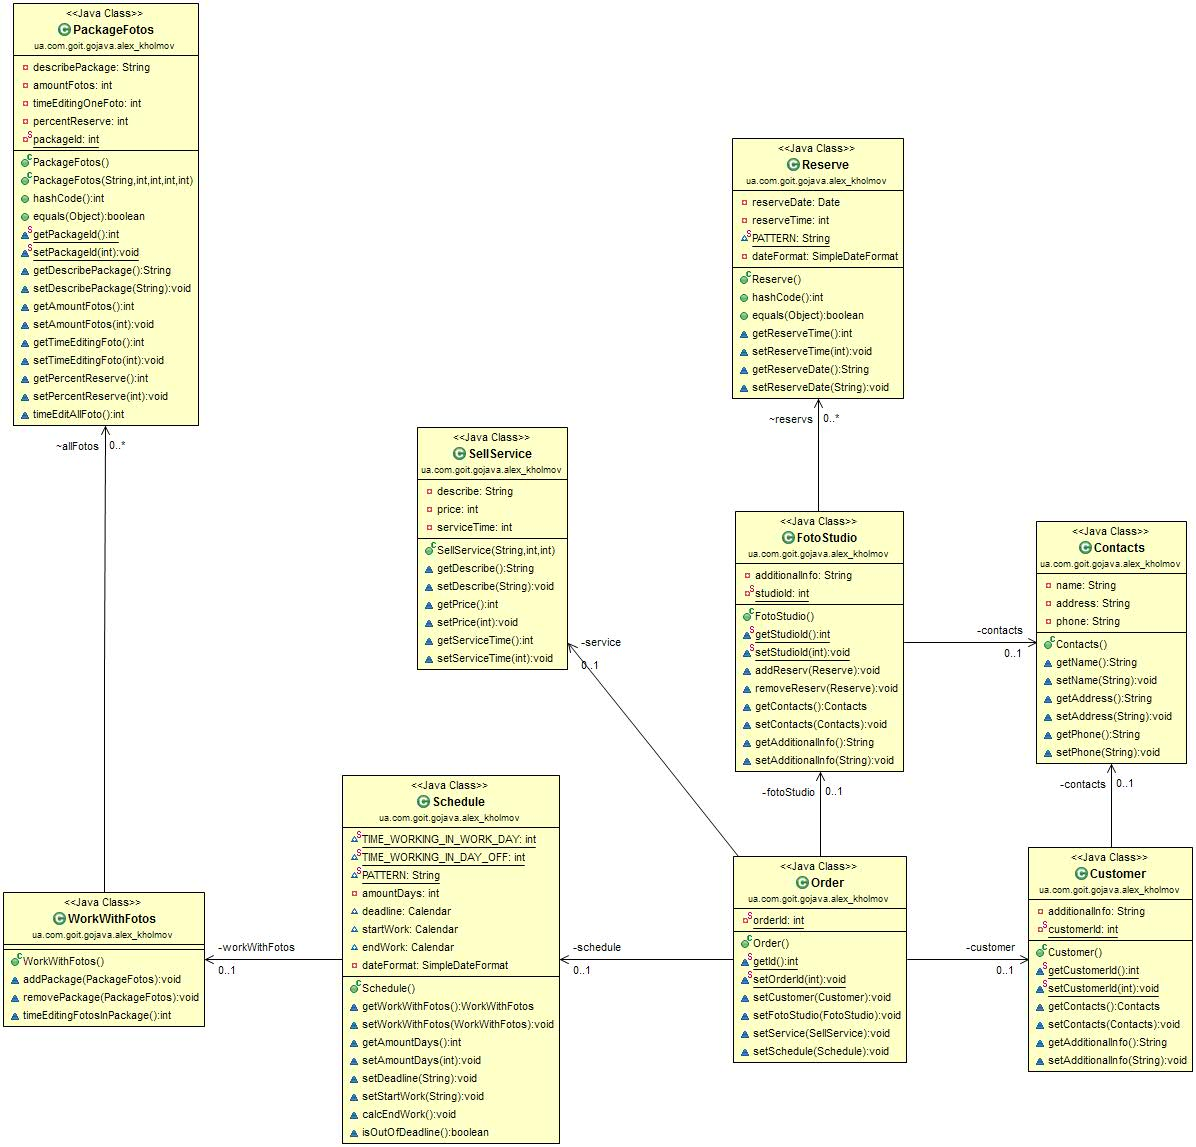
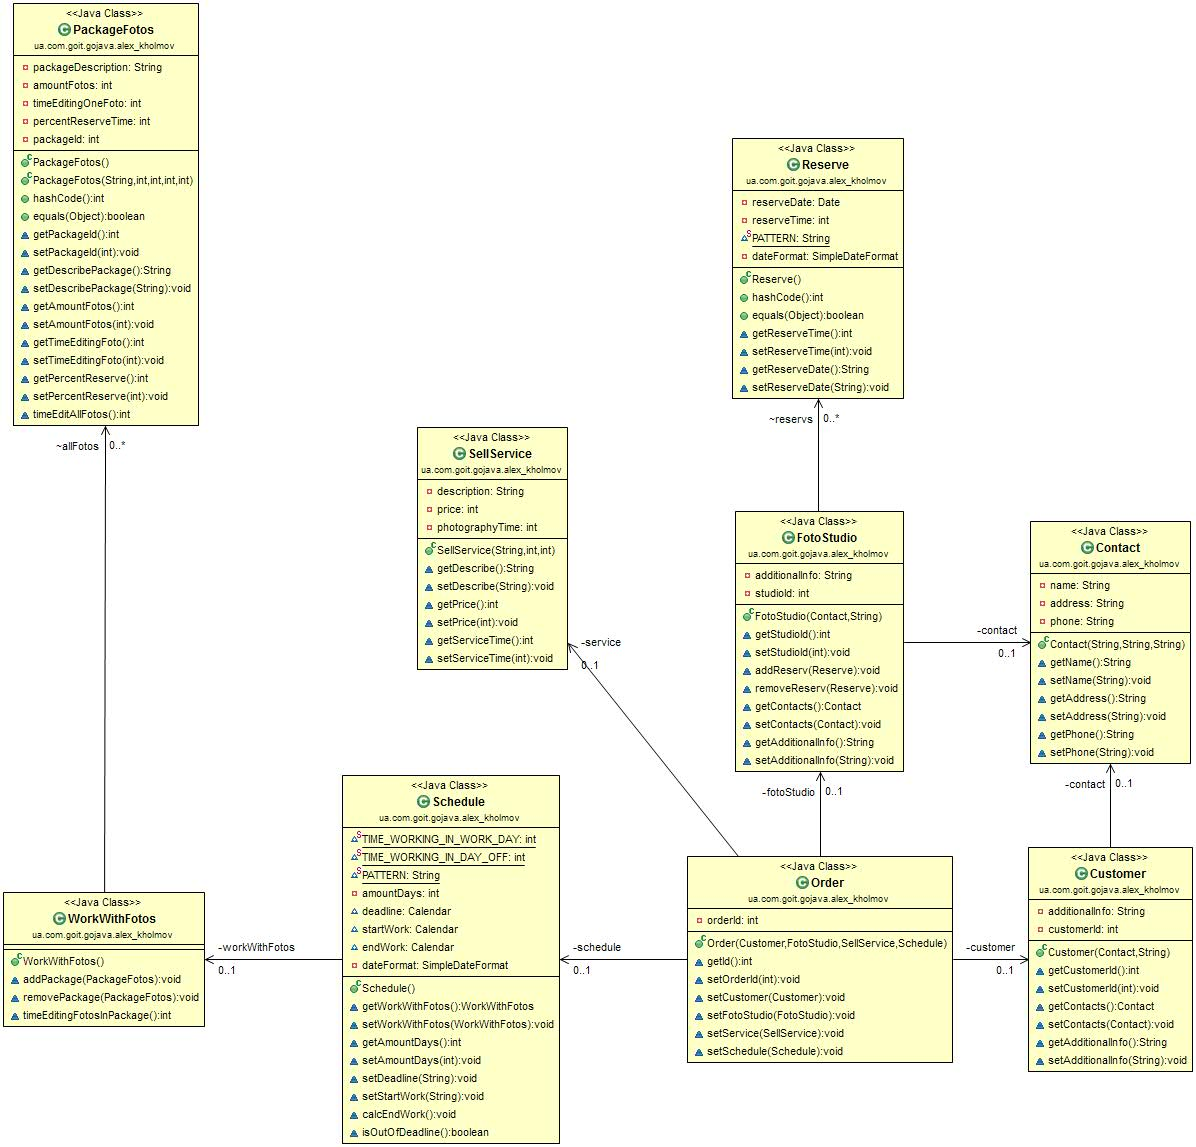
Initial commit of unit2. version 0.9
git-svn-id: http://go-java-1.googlecode.com/svn@1748 371e26f7-1d5d-4d7b-6139-2def7fa80f1e

diff --git a/trunk/GoJava1/oleksandr.holmov/unit2/Photographer Organizer/src/ua/com/goit/gojava/alex_kholmov/PackageFotos.java b/trunk/GoJava1/oleksandr.holmov/unit2/Photographer Organizer/src/ua/com/goit/gojava/alex_kholmov/PackageFotos.java
@@ -10,22 +10,21 @@ import java.io.Serializable;
  *
  */
 public class PackageFotos implements Serializable{
-    private String describePackage;
+    private String packageDescription;
     private int amountFotos;
-    private int timeEditingOneFoto; //minutes
-    private int percentReserve;     //percents
-    private static int packageId;
+    private int timeEditingOneFoto;     //minutes
+    private int percentReserveTime;     //percents
+    private int packageId;
 
     public PackageFotos() {
-        // TODO Auto-generated constructor stub
+
     }
     
-    public PackageFotos(String describePackage, int amountFotos, int timeEditingFoto, int percentReserve, int packageId) {
-        this.describePackage = describePackage;
+    public PackageFotos(String packageDescription, int amountFotos, int timeEditingOneFoto, int percentReserveTime, int packageId) {
+        this.packageDescription = packageDescription;
         this.amountFotos = amountFotos;
-        this.timeEditingOneFoto = timeEditingFoto;
-        this.percentReserve = percentReserve;
-        this.packageId = packageId;
+        this.timeEditingOneFoto = timeEditingOneFoto;
+        this.percentReserveTime = percentReserveTime;
     }
     
     @Override
@@ -34,9 +33,9 @@ public class PackageFotos implements Serializable{
         int result = 1;
         result = prime * result + amountFotos;
         result = prime * result
-                + ((describePackage == null) ? 0 : describePackage.hashCode());
+                + ((packageDescription == null) ? 0 : packageDescription.hashCode());
         result = prime * result + timeEditingOneFoto;
-        result = prime * result + percentReserve;
+        result = prime * result + percentReserveTime;
         return result;
     }
 
@@ -51,34 +50,34 @@ public class PackageFotos implements Serializable{
         PackageFotos other = (PackageFotos) obj;
         if (amountFotos != other.amountFotos)
             return false;
-        if (describePackage == null) {
-            if (other.describePackage != null)
+        if (packageDescription == null) {
+            if (other.packageDescription != null)
                 return false;
-        } else if (!describePackage.equals(other.describePackage))
+        } else if (!packageDescription.equals(other.packageDescription))
             return false;
         if (timeEditingOneFoto != other.timeEditingOneFoto)
             return false;
-        if (percentReserve != other.percentReserve)
+        if (percentReserveTime != other.percentReserveTime)
             return false;
         return true;
     }
 
     
 
-    static int getPackageId() {
+    int getPackageId() {
         return packageId;
     }
 
-    static void setPackageId(int packageId) {
-        PackageFotos.packageId = packageId;
+    void setPackageId(int packageId) {
+        this.packageId = packageId;
     }
 
     String getDescribePackage() {
-        return describePackage;
+        return packageDescription;
     }
 
-    void setDescribePackage(String describePackage) {
-        this.describePackage = describePackage;
+    void setDescribePackage(String packageDescription) {
+        this.packageDescription = packageDescription;
     }
 
     int getAmountFotos() {
@@ -93,22 +92,22 @@ public class PackageFotos implements Serializable{
         return timeEditingOneFoto;
     }
     
-    void setTimeEditingFoto(int timeEditingFoto) {
-        this.timeEditingOneFoto = timeEditingFoto;
+    void setTimeEditingFoto(int timeEditingOneFoto) {
+        this.timeEditingOneFoto = timeEditingOneFoto;
     }
     
     int getPercentReserve() {
-        return percentReserve;
+        return percentReserveTime;
     }
 
-    void setPercentReserve(int percentReserve) {
-        this.percentReserve = percentReserve;
+    void setPercentReserve(int percentReserveTime) {
+        this.percentReserveTime = percentReserveTime;
     }
 
     //return time in minutes
-    int timeEditAllFoto() {
+    int timeEditAllFotos() {
         int allTime = amountFotos * timeEditingOneFoto;
-        return allTime + ((allTime * percentReserve) / 100);
+        return allTime + ((allTime * percentReserveTime) / 100);
     }
 
 }

diff --git a/trunk/GoJava1/oleksandr.holmov/unit2/Photographer Organizer/src/ua/com/goit/gojava/alex_kholmov/FotoStudio.java b/trunk/GoJava1/oleksandr.holmov/unit2/Photographer Organizer/src/ua/com/goit/gojava/alex_kholmov/FotoStudio.java
@@ -3,34 +3,30 @@
  */
 package ua.com.goit.gojava.alex_kholmov;
 
-import java.text.SimpleDateFormat;
 import java.util.ArrayList;
-import java.util.Calendar;
-import java.util.GregorianCalendar;
+import java.util.List;
 
 /**
  * @author SASH
  *
  */
 public class FotoStudio {
-    private Contacts contacts;
+    private Contact contact;
     private String additionalInfo;
-    ArrayList<Reserve> reservs = new ArrayList<Reserve>();
-    private static int studioId;
+    private int studioId;
+    List<Reserve> reservs = new ArrayList<Reserve>();
 
-//    public FotoStudio(Contacts contacts, String additionalInfo) {
-//        // TODO Auto-generated constructor stub
-//        this.contacts = contacts;
-//        this.additionalInfo = additionalInfo;
-//        studioId++;
-//    }
+    public FotoStudio(Contact contact, String additionalInfo) {
+        this.contact = contact;
+        this.additionalInfo = additionalInfo;
+    }
 
-    static int getStudioId() {
+    int getStudioId() {
         return studioId;
     }
 
-    static void setStudioId(int studioId) {
-        FotoStudio.studioId = studioId;
+    void setStudioId(int studioId) {
+        this.studioId = studioId;
     }
     
     void addReserv(Reserve reserv) {
@@ -41,12 +37,12 @@ public class FotoStudio {
         reservs.remove(reserv);
     }
 
-    Contacts getContacts() {
-        return contacts;
+    Contact getContacts() {
+        return contact;
     }
 
-    void setContacts(Contacts contacts) {
-        this.contacts = contacts;
+    void setContacts(Contact contact) {
+        this.contact = contact;
     }
 
     String getAdditionalInfo() {

diff --git a/trunk/GoJava1/oleksandr.holmov/unit2/Photographer Organizer/src/ua/com/goit/gojava/alex_kholmov/Order.java b/trunk/GoJava1/oleksandr.holmov/unit2/Photographer Organizer/src/ua/com/goit/gojava/alex_kholmov/Order.java
@@ -3,11 +3,6 @@
  */
 package ua.com.goit.gojava.alex_kholmov;
 
-import java.text.ParseException;
-import java.text.SimpleDateFormat;
-import java.util.Calendar;
-import java.util.Date;
-import java.util.GregorianCalendar;
 
 /**
  * @author SASH
@@ -16,25 +11,23 @@ import java.util.GregorianCalendar;
 public class Order {
     private Customer customer;
     private FotoStudio fotoStudio;
-    private SellService service;
+    private Photography service;
     private Schedule schedule;
-    private static int orderId;
+    private int orderId;
 
-//    public Order(Customer customer, FotoStudio fotoStudio, SellService service, Schedule schedule) {
-//        // TODO Auto-generated constructor stub
-//        this.customer = customer;
-//        this.fotoStudio = fotoStudio;
-//        this.service = service;
-//        this.schedule = schedule;
-//        orderId++;
-//    }
+    public Order(Customer customer, FotoStudio fotoStudio, Photography service, Schedule schedule) {
+        this.customer = customer;
+        this.fotoStudio = fotoStudio;
+        this.service = service;
+        this.schedule = schedule;
+    }
 
-    static int getId() {
+    int getId() {
         return orderId;
     }
     
-    static void setOrderId(int orderId) {
-        Order.orderId = orderId;
+    void setOrderId(int orderId) {
+        this.orderId = orderId;
     }
 
     void setCustomer(Customer customer) {
@@ -45,7 +38,7 @@ public class Order {
         this.fotoStudio = fotoStudio;
     }
     
-    void setService(SellService service) {
+    void setService(Photography service) {
         this.service = service;
     }
 

diff --git a/trunk/GoJava1/oleksandr.holmov/unit2/Photographer Organizer/src/ua/com/goit/gojava/alex_kholmov/Customer.java b/trunk/GoJava1/oleksandr.holmov/unit2/Photographer Organizer/src/ua/com/goit/gojava/alex_kholmov/Customer.java
@@ -8,31 +8,29 @@ package ua.com.goit.gojava.alex_kholmov;
  *
  */
 public class Customer {
-    private Contacts contacts;
+    private Contact contact;
     private String additionalInfo;
-    private static int customerId;
+    private int customerId;
 
-//    public Customer(Contacts contacts, String additionalInfo) {
-//        // TODO Auto-generated constructor stub
-//        this.contacts = contacts;
-//        this.additionalInfo = additionalInfo;
-//        customerId++;
-//    }
+    public Customer(Contact contact, String additionalInfo) {
+        this.contact = contact;
+        this.additionalInfo = additionalInfo;
+    }
 
-    static int getCustomerId() {
+    int getCustomerId() {
         return customerId;
     }
 
-    static void setCustomerId(int customerId) {
-        Customer.customerId = customerId;
+    void setCustomerId(int customerId) {
+        this.customerId = customerId;
     }
 
-    Contacts getContacts() {
-        return contacts;
+    Contact getContacts() {
+        return contact;
     }
     
-    void setContacts(Contacts contacts) {
-        this.contacts = contacts;
+    void setContacts(Contact contact) {
+        this.contact = contact;
     }
     
     String getAdditionalInfo() {

diff --git a/trunk/GoJava1/oleksandr.holmov/unit2/Photographer Organizer/src/ua/com/goit/gojava/alex_kholmov/Photography.java b/trunk/GoJava1/oleksandr.holmov/unit2/Photographer Organizer/src/ua/com/goit/gojava/alex_kholmov/Photography.java
@@ -1,0 +1,41 @@
+/**
+ * 
+ */
+package ua.com.goit.gojava.alex_kholmov;
+
+/**
+ * @author SASH
+ *
+ */
+//change naming
+public class Photography {
+    private String description;
+    private int price;
+    private int photographyTime; //hours
+
+    public Photography(String description, int price, int photographyTime) {
+        this.description = description;
+        this.price = price;
+        this.photographyTime = photographyTime;
+    }
+    
+    String getDescribe() {
+        return description;
+    }
+    void setDescribe(String description) {
+        this.description = description;
+    }
+    int getPrice() {
+        return price;
+    }
+    void setPrice(int price) {
+        this.price = price;
+    }
+    int getServiceTime() {
+        return photographyTime;
+    }
+    void setServiceTime(int photographyTime) {
+        this.photographyTime = photographyTime;
+    }
+    
+}

diff --git a/trunk/GoJava1/oleksandr.holmov/unit2/Photographer Organizer/src/ua/com/goit/gojava/alex_kholmov/WorkWithFotos.java b/trunk/GoJava1/oleksandr.holmov/unit2/Photographer Organizer/src/ua/com/goit/gojava/alex_kholmov/WorkWithFotos.java
@@ -4,13 +4,14 @@
 package ua.com.goit.gojava.alex_kholmov;
 
 import java.util.ArrayList;
+import java.util.List;
 
 /**
  * @author SASH
  *
  */
 public class WorkWithFotos {
-    ArrayList<PackageFotos> allFotos = new ArrayList<PackageFotos>();
+    List<PackageFotos> allFotos = new ArrayList<PackageFotos>();
 
     void addPackage(PackageFotos pFotos) {
         allFotos.add(pFotos);
@@ -27,7 +28,7 @@ public class WorkWithFotos {
         } else {
             int hoursToEditAllPhotos = 0;
             for (PackageFotos pFotos : allFotos) {
-                hoursToEditAllPhotos += pFotos.timeEditAllFoto() / 60;
+                hoursToEditAllPhotos += pFotos.timeEditAllFotos() / 60;
             }
             return hoursToEditAllPhotos;
         }

diff --git a/trunk/GoJava1/oleksandr.holmov/unit2/Photographer Organizer/src/ua/com/goit/gojava/alex_kholmov/Contact.java b/trunk/GoJava1/oleksandr.holmov/unit2/Photographer Organizer/src/ua/com/goit/gojava/alex_kholmov/Contact.java
@@ -7,16 +7,16 @@ package ua.com.goit.gojava.alex_kholmov;
  * @author SASH
  *
  */
-public class Contacts {
+public class Contact {
     private String name;
     private String address;
     private String phone;
-
-//    public Contacts(String name, String address, String phone) {
-//        this.name = name;
-//        this.address = address;
-//        this.phone = phone;
-//    }
+    
+    public Contact(String name, String address, String phone) {
+        this.name = name;
+        this.address = address;
+        this.phone = phone;
+    }
     
     String getName() {
         return name;

diff --git a/trunk/GoJava1/oleksandr.holmov/unit2/Photographer Organizer/src/ua/com/goit/gojava/alex_kholmov/Reserve.java b/trunk/GoJava1/oleksandr.holmov/unit2/Photographer Organizer/src/ua/com/goit/gojava/alex_kholmov/Reserve.java
@@ -65,7 +65,6 @@ public class Reserve {
         try {
             reserveDate = dateFormat.parse(date);
         } catch (ParseException e) {
-            // TODO: handle exception
             System.err.print(e.getMessage());
         }
     }

diff --git a/trunk/GoJava1/oleksandr.holmov/unit2/Photographer Organizer/src/ua/com/goit/gojava/alex_kholmov/Schedule.java b/trunk/GoJava1/oleksandr.holmov/unit2/Photographer Organizer/src/ua/com/goit/gojava/alex_kholmov/Schedule.java
@@ -82,7 +82,6 @@ public class Schedule {
                 amountDays++;
             }
         } catch (ParseException e) {
-            // TODO Auto-generated catch block
             System.err.print(e.getMessage());
         }
     }
